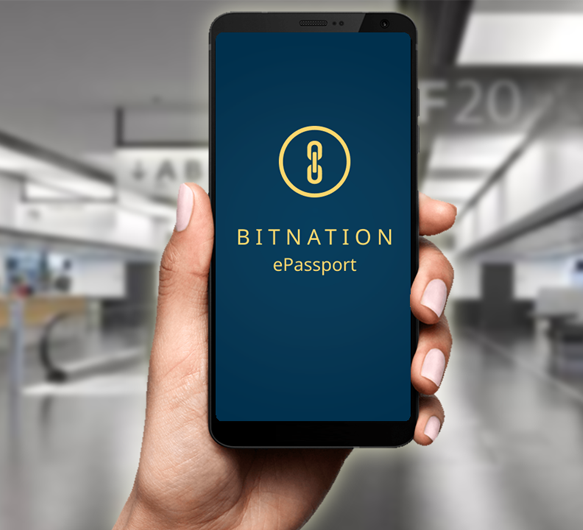
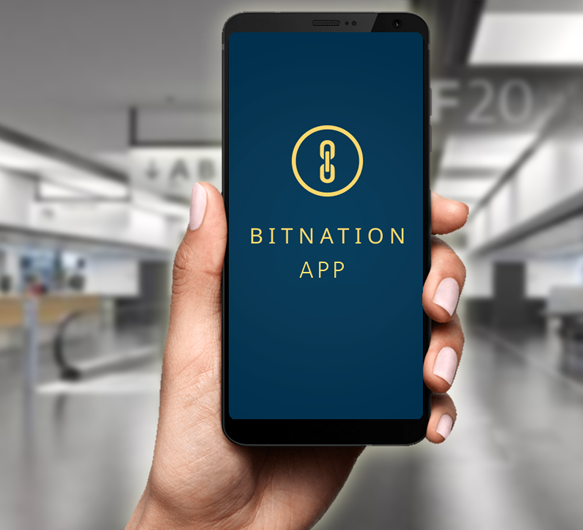
preview update 13

diff --git a/index.html b/index.html
@@ -138,7 +138,7 @@
         
           <div class="row justify-content-center text-center mb-5">
             <div class="col-md-12" data-aos="fade-up">
-              <h2 class="section-heading">Bitnation ePassport</h2>
+              <h2 class="section-heading">Bitnation APP</h2>
 
             </div>
             
@@ -159,12 +159,12 @@
                 </p>
                 <p>
 
-                  Bitnation ePassport app offers a way to issue, manage and verifies documents in a peer-to-peer manner while the ePassport itself is a digital ID that hosts documents attached to it. The private data is hosted on the user’s device and the validity of the data is provided by notarization on the Pangea Blockchain.
+                  Bitnation app offers a way to issue, manage and verifies documents in a peer-to-peer manner while the ePassport itself is a digital ID that hosts documents attached to it. The private data is hosted on the user’s device and the validity of the data is provided by notarization on the Pangea Blockchain.
 
                 </p>
 
                 <p data-aos="fade-left" data-aos-delay="200" data-aos-offset="-500"><a href="manifesto.html"
-                    class="btn btn-primary">Read ePassport Manifesto</a></p>
+                    class="btn btn-primary">Read Technical Manifesto</a></p>
                   
               </div>
             </div>
@@ -172,7 +172,7 @@
 
           <div class="row justify-content-center text-center mb-5">
             <div class="col-md-12" data-aos="fade-up">
-              <h2 class="section-heading">Current DEV Roadmap</h2>
+              <h2 class="section-heading">Current State of the App</h2>
 
             </div>
             
@@ -183,20 +183,20 @@
             <div class="col-md-6" style="margin-bottom:40px;">
               <div class="" style="text-align:left; color: #393939">
 
-                <p style="font-size: 20px;"><b>Bitnation ePassport v0.1</b></p>
+                <p style="font-size: 20px;"><b>Bitnation APP v0.1</b></p>
                 <ul>
                   <li class="checked_li"> Create Authentication server  </li>
                   <li class="checked_li">Implement Registration/Login into app</li>
                   <li class="checked_li">Implement QR scanning to app</li>
                   <li class="checked_li">Implement camera functionality to app</li>
-                  <li class="checked_li">Implement ePassport creation to app</li>
+                  <li class="checked_li">Implement eID creation to app</li>
                   <li class="checked_li">Create test blockchain framework</li>
-                  <li class="checked_li">Implement AES cryptography to ePassport data</li>
+                  <li class="checked_li">Implement AES cryptography to eID data</li>
                   <li class="checked_li">Implement real-time push notifications</li>
-                  <li class="checked_li">Implement end-to-end ePassport sending</li>
+                  <li class="checked_li">Implement end-to-end eID sending</li>
                   <li class="unchecked_li">Implement Public/Private key cryptography in app</li>
-                  <li class="unchecked_li">Notarise ePassport on test blockchain framework</li>
-                  <li class="unchecked_li">Verify ePassport validity on chain</li>
+                  <li class="unchecked_li">Notarise eID on test blockchain framework</li>
+                  <li class="unchecked_li">Verify eID validity on chain</li>
                   <li class="unchecked_li">Publish to the App Stores</li>
                 </ul>
                
